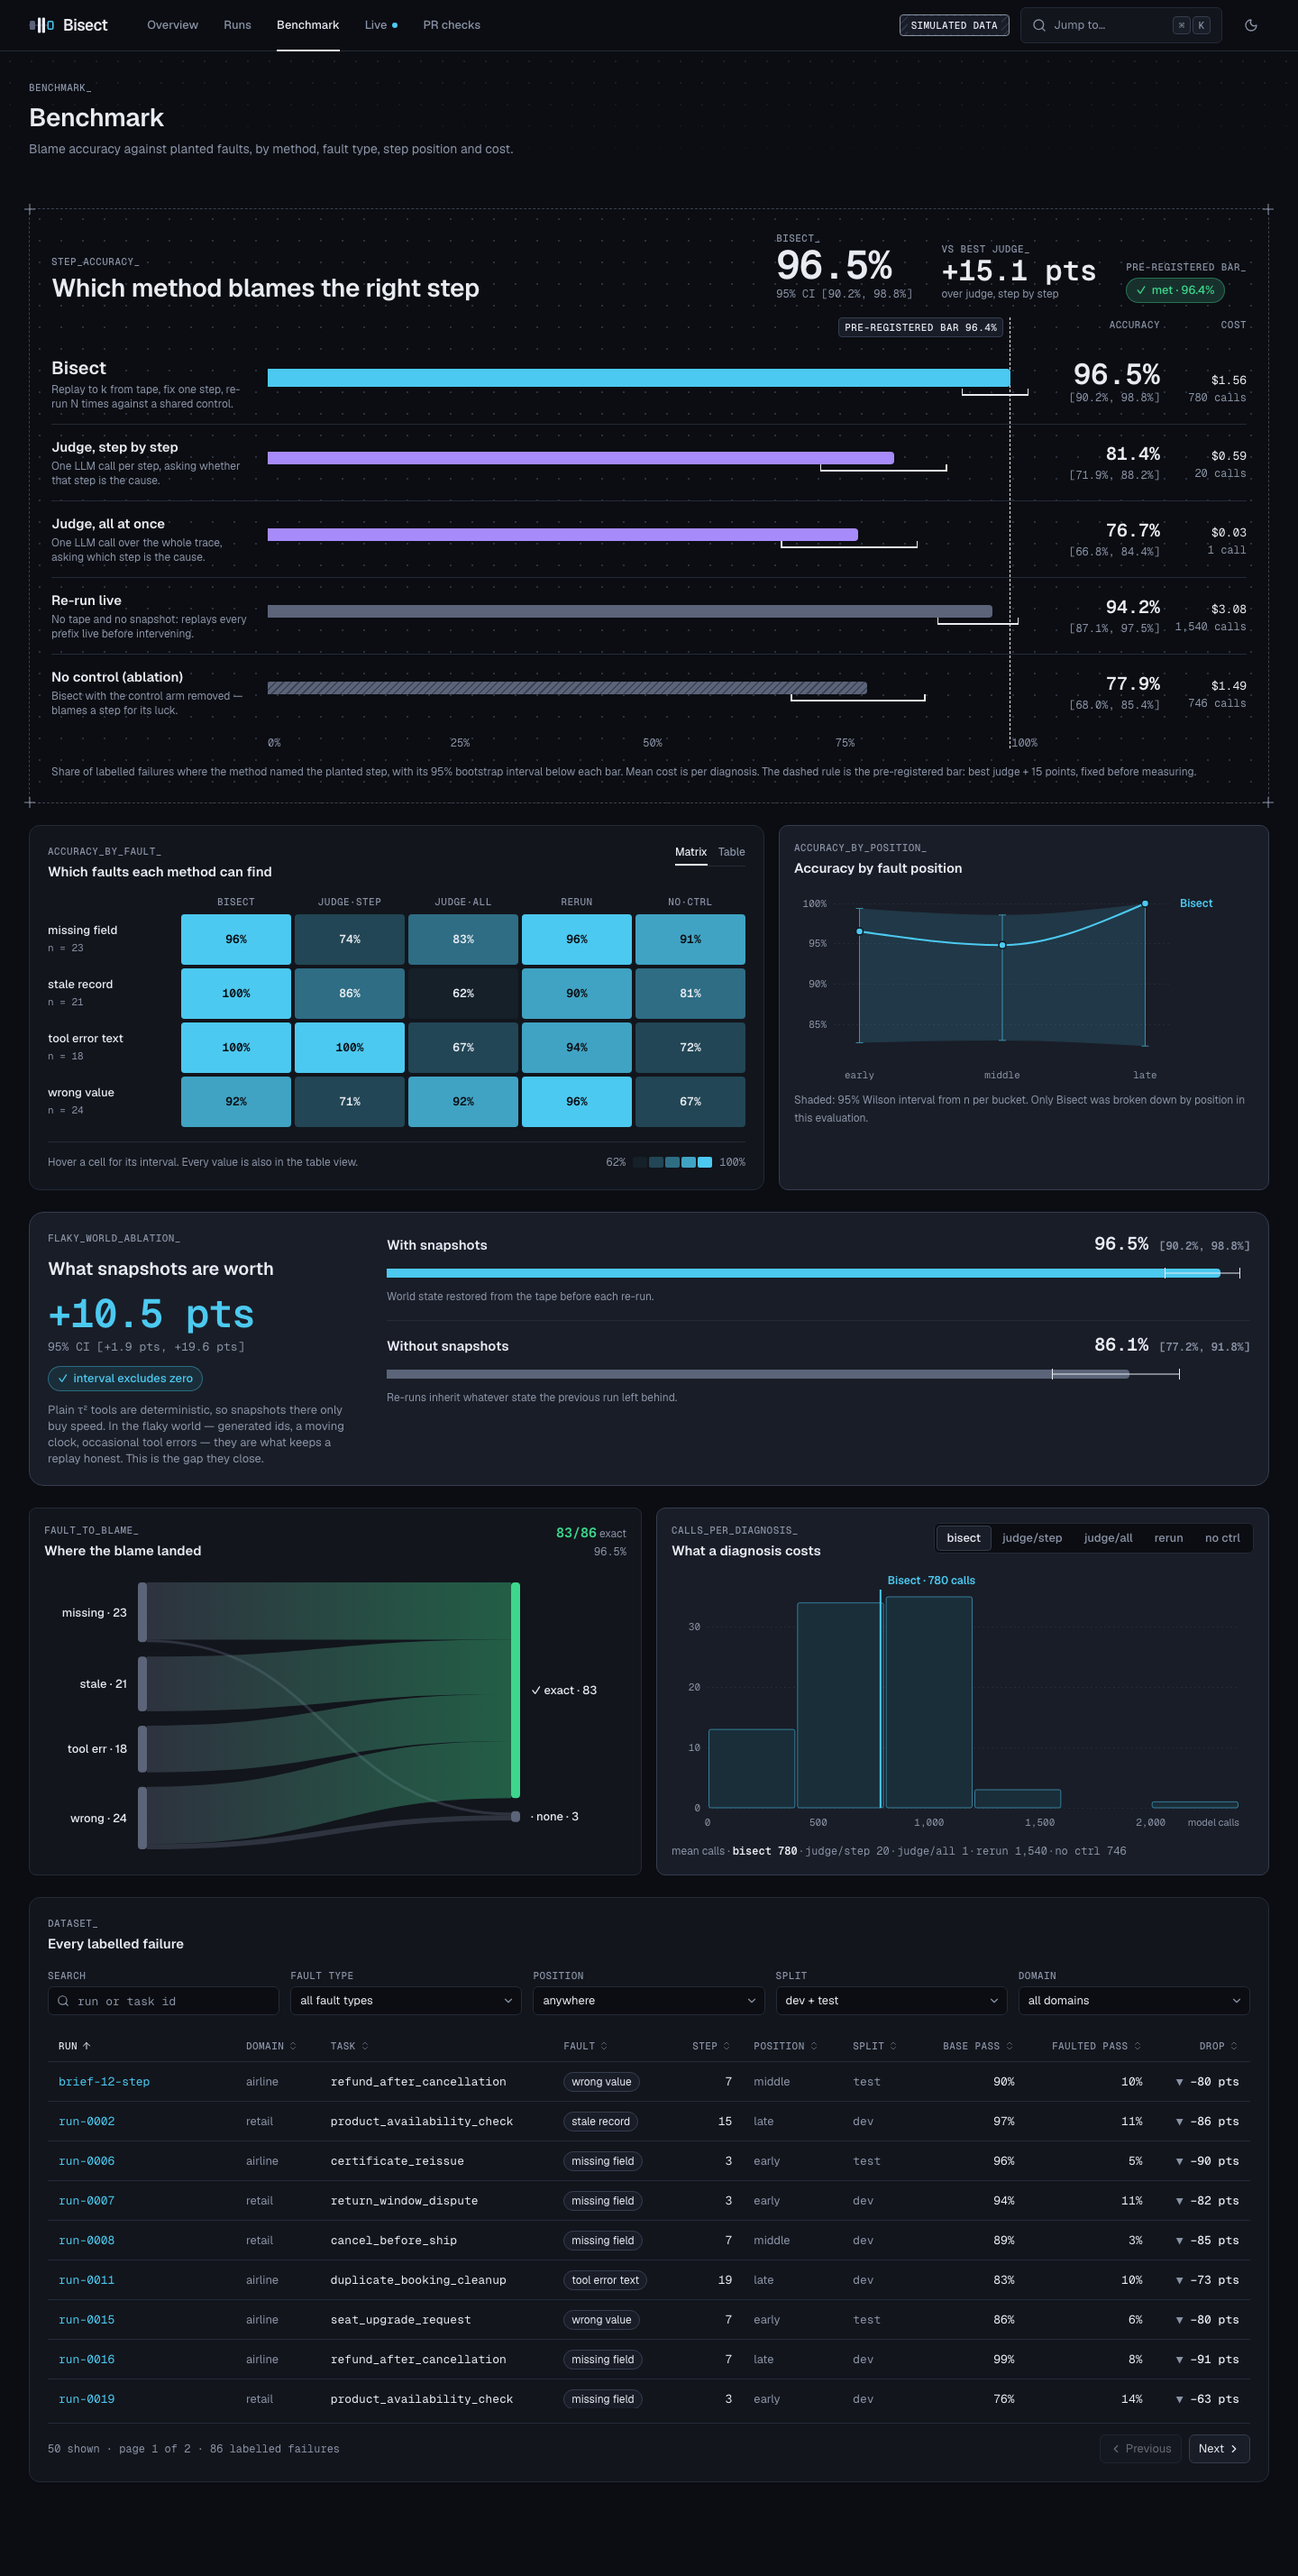
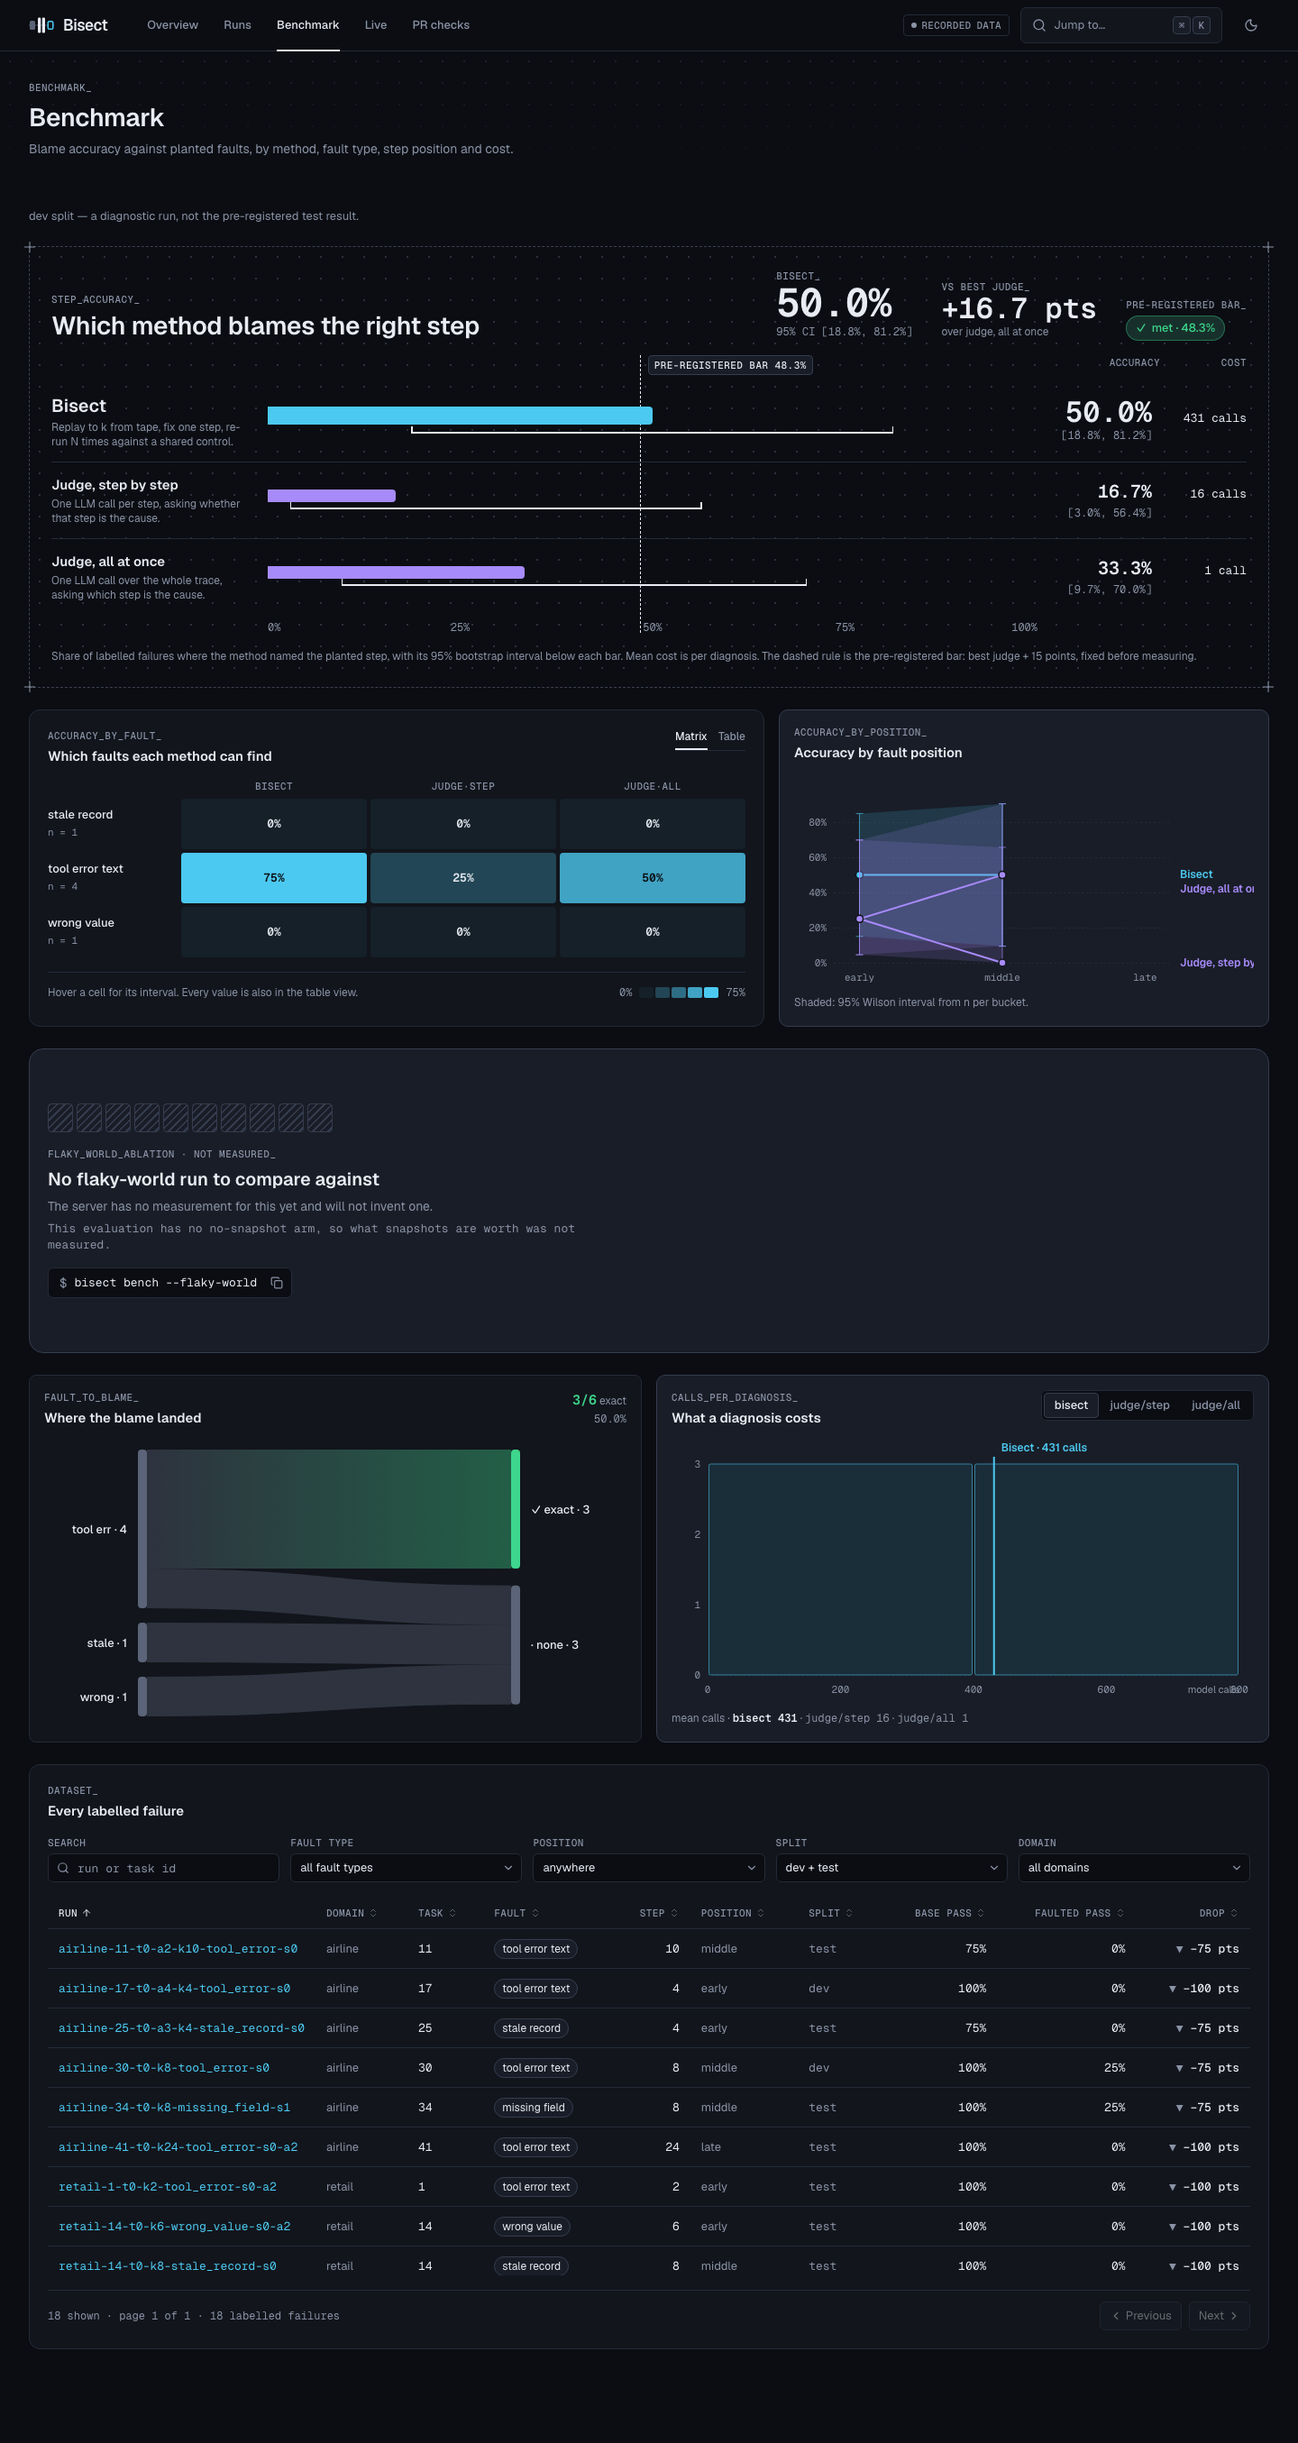
docs(screenshots): recapture the final set against bisect serve --real
New capture script (real-final-capture.ts + real-final.config.ts): same
12 curated shots and method as final-capture.ts, parameterized by env var
(REAL_RUN_ID/REAL_PR_CHECK_ID/REAL_SEARCH_TERM) instead of the fixture's
hard-coded brief-12-step/pr-check-00, since real mode has no fixed worked
example. Run against this checkout's runs/ with:

  uv run bisect serve --real --port 8498
  REAL_RUN_ID=airline-17-t0-a4-k4-tool_error-s0 \
  REAL_PR_CHECK_ID=demo_p7-id-slip-100 REAL_SEARCH_TERM=airline-17 \
  npx playwright test --config e2e/capture/real-final.config.ts

docs/screenshots/final/*.png now show real recordings: the "Recorded
data" flag (not "Simulated"), real provenance (chosen models via the
config/models.toml fix), the dev-split diagnostic notice on Overview and
Benchmark, a real diagnosed run's rewind/forest/judge panel, and a real
PR-check regression comment from runs/p7/local/.

Claude-Session: https://claude.ai/code/session_01XrNUztNB6TRzTfbhvKsvG5

diff --git a/web/e2e/capture/real-final-capture.ts b/web/e2e/capture/real-final-capture.ts
@@ -1,0 +1,142 @@
+/**
+ * P6 real-data finalization: the same curated screenshot set as
+ * final-capture.ts, re-shot against `bisect serve --real` serving the
+ * production build, so docs/screenshots/final/ shows real recordings
+ * instead of the seeded fixture. Same 12 names, same method (real app,
+ * real API, no page.route mocking, viewport opened to the page's own
+ * height before an ordinary screenshot -- never `fullPage`, see
+ * final-capture.ts's own note on the visx `ParentSize` re-measure artefact).
+ *
+ * Run id / PR check id / search term are env vars, not hard-coded, because
+ * real mode has no fixed "brief-12-step" worked example -- pick a real
+ * diagnosed run (one file under runs/blame/) and a real gate check
+ * (one directory under runs/p7/local/).
+ *
+ *   uv run bisect serve --real --port 8498
+ *   cd web && REAL_FINAL_BASE_URL=http://127.0.0.1:8498 \
+ *     REAL_RUN_ID=airline-17-t0-a4-k4-tool_error-s0 \
+ *     REAL_PR_CHECK_ID=demo_p7-id-slip-100 \
+ *     REAL_SEARCH_TERM=airline-17 \
+ *     npx playwright test --config e2e/capture/real-final.config.ts
+ */
+import { type Page, test } from '@playwright/test'
+
+const THEME_KEY = 'bisect.theme'
+type Theme = 'dark' | 'light'
+
+interface Viewport {
+  readonly width: number
+  readonly height: number
+}
+const DESKTOP: Viewport = { width: 1440, height: 900 }
+const MOBILE: Viewport = { width: 390, height: 844 }
+
+/** Charts animate in on first view; give every entrance time to resolve. */
+const SETTLE_MS = 2200
+/** Room for the page to grow into once the viewport is opened to its height. */
+const TALL_MARGIN_PX = 40
+
+const RUN_ID = process.env.REAL_RUN_ID ?? ''
+const PR_CHECK_ID = process.env.REAL_PR_CHECK_ID ?? ''
+const SEARCH_TERM = process.env.REAL_SEARCH_TERM ?? ''
+
+async function setTheme(page: Page, theme: Theme): Promise<void> {
+  await page.addInitScript(([key, value]) => window.localStorage.setItem(key, value), [
+    THEME_KEY,
+    theme,
+  ] as const)
+}
+
+async function open(page: Page, theme: Theme, viewport: Viewport, path: string): Promise<void> {
+  await page.setViewportSize(viewport)
+  await page.emulateMedia({ reducedMotion: 'reduce' })
+  await setTheme(page, theme)
+  await page.goto(path)
+  await page.getByRole('heading', { level: 1 }).waitFor()
+  await page.waitForTimeout(SETTLE_MS)
+}
+
+/**
+ * Opens the viewport to the page's own height, then takes an ordinary shot.
+ *
+ * NOT `fullPage: true`: see evaluator-capture.ts's `shootWholePage` for why --
+ * the same visx `ParentSize` re-measure artefact applies here.
+ */
+async function shootWholePage(page: Page, name: string, width: number): Promise<void> {
+  const height = await page.evaluate(() => document.documentElement.scrollHeight)
+  await page.setViewportSize({ width, height: height + TALL_MARGIN_PX })
+  await page.waitForTimeout(SETTLE_MS)
+  await page.screenshot({ path: `../docs/screenshots/final/${name}.png` })
+}
+
+test('overview dark 1440', async ({ page }) => {
+  await open(page, 'dark', DESKTOP, '/')
+  await shootWholePage(page, 'overview-dark-1440', DESKTOP.width)
+})
+
+test('overview light 1440', async ({ page }) => {
+  await open(page, 'light', DESKTOP, '/')
+  await shootWholePage(page, 'overview-light-1440', DESKTOP.width)
+})
+
+test('overview dark 390', async ({ page }) => {
+  await open(page, 'dark', MOBILE, '/')
+  await shootWholePage(page, 'overview-dark-390', MOBILE.width)
+})
+
+test('runs dark 1440', async ({ page }) => {
+  await open(page, 'dark', DESKTOP, '/runs')
+  await shootWholePage(page, 'runs-dark-1440', DESKTOP.width)
+})
+
+test('run detail dark 1440', async ({ page }) => {
+  await open(page, 'dark', DESKTOP, `/runs/${RUN_ID}`)
+  await shootWholePage(page, 'run-detail-dark-1440', DESKTOP.width)
+})
+
+test('run detail light 1440', async ({ page }) => {
+  await open(page, 'light', DESKTOP, `/runs/${RUN_ID}`)
+  await shootWholePage(page, 'run-detail-light-1440', DESKTOP.width)
+})
+
+test('run detail dark 390', async ({ page }) => {
+  await open(page, 'dark', MOBILE, `/runs/${RUN_ID}`)
+  await shootWholePage(page, 'run-detail-dark-390', MOBILE.width)
+})
+
+test('run detail rewind dark 1440', async ({ page }) => {
+  await open(page, 'dark', DESKTOP, `/runs/${RUN_ID}`)
+  await page.getByRole('button', { name: /Rewind to k=/ }).click()
+  await page.waitForTimeout(1200)
+  await page.screenshot({ path: '../docs/screenshots/final/run-detail-rewind-dark-1440.png' })
+})
+
+test('benchmark dark 1440', async ({ page }) => {
+  await open(page, 'dark', DESKTOP, '/benchmark')
+  await shootWholePage(page, 'benchmark-dark-1440', DESKTOP.width)
+})
+
+test('live dark 1440', async ({ page }) => {
+  await open(page, 'dark', DESKTOP, '/live')
+  await page
+    .getByText(/\b([2-9]|\d{2,}) updates\b/)
+    .first()
+    .waitFor({ timeout: 40_000 })
+  await page.waitForTimeout(600)
+  await shootWholePage(page, 'live-dark-1440', DESKTOP.width)
+})
+
+test('pr check detail dark 1440', async ({ page }) => {
+  await open(page, 'dark', DESKTOP, `/pr-checks/${PR_CHECK_ID}`)
+  await shootWholePage(page, 'pr-check-detail-dark-1440', DESKTOP.width)
+})
+
+test('palette dark 1440', async ({ page }) => {
+  await open(page, 'dark', DESKTOP, '/runs')
+  await page.keyboard.press('ControlOrMeta+k')
+  await page.getByRole('dialog').waitFor()
+  await page.keyboard.type(SEARCH_TERM)
+  await page.getByRole('option').first().waitFor()
+  await page.waitForTimeout(400)
+  await page.screenshot({ path: '../docs/screenshots/final/palette-dark-1440.png' })
+})

diff --git a/web/e2e/capture/real-final.config.ts b/web/e2e/capture/real-final.config.ts
@@ -1,0 +1,21 @@
+import { defineConfig, devices } from '@playwright/test'
+
+/**
+ * Config for `real-final-capture.ts` (P6 real-data finalization's curated
+ * screenshots). No `webServer`: the caller starts `bisect serve --real`
+ * itself and this only points at it -- see real-final-capture.ts's module
+ * docstring.
+ */
+const BASE_URL = process.env.REAL_FINAL_BASE_URL ?? 'http://127.0.0.1:8498'
+
+export default defineConfig({
+  testDir: '.',
+  testMatch: /real-final-capture\.ts/,
+  fullyParallel: false,
+  workers: 1,
+  timeout: 60_000,
+  retries: 0,
+  reporter: [['list']],
+  use: { baseURL: BASE_URL },
+  projects: [{ name: 'chromium', use: { ...devices['Desktop Chrome'] } }],
+})
